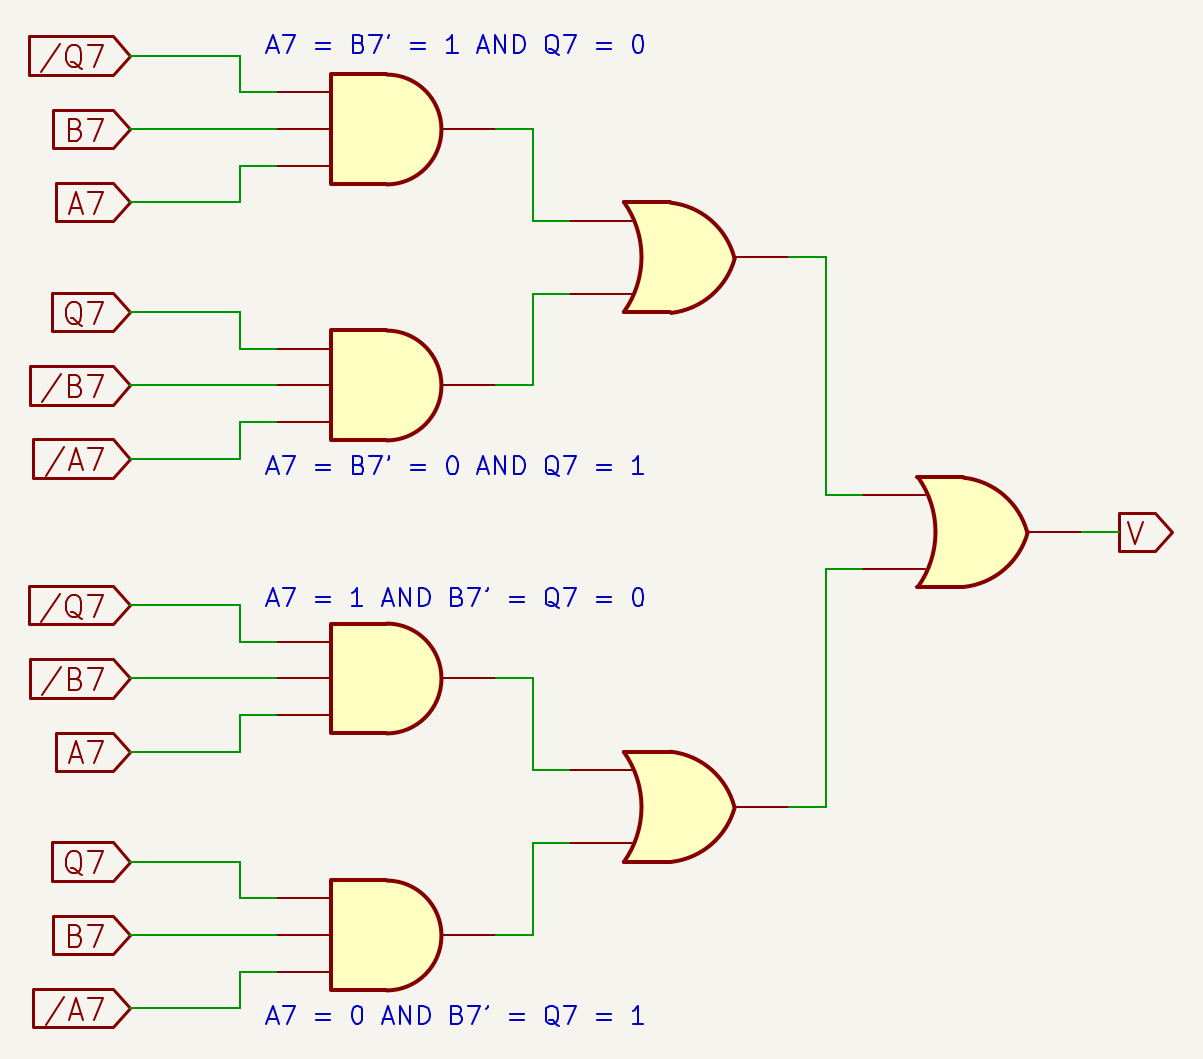
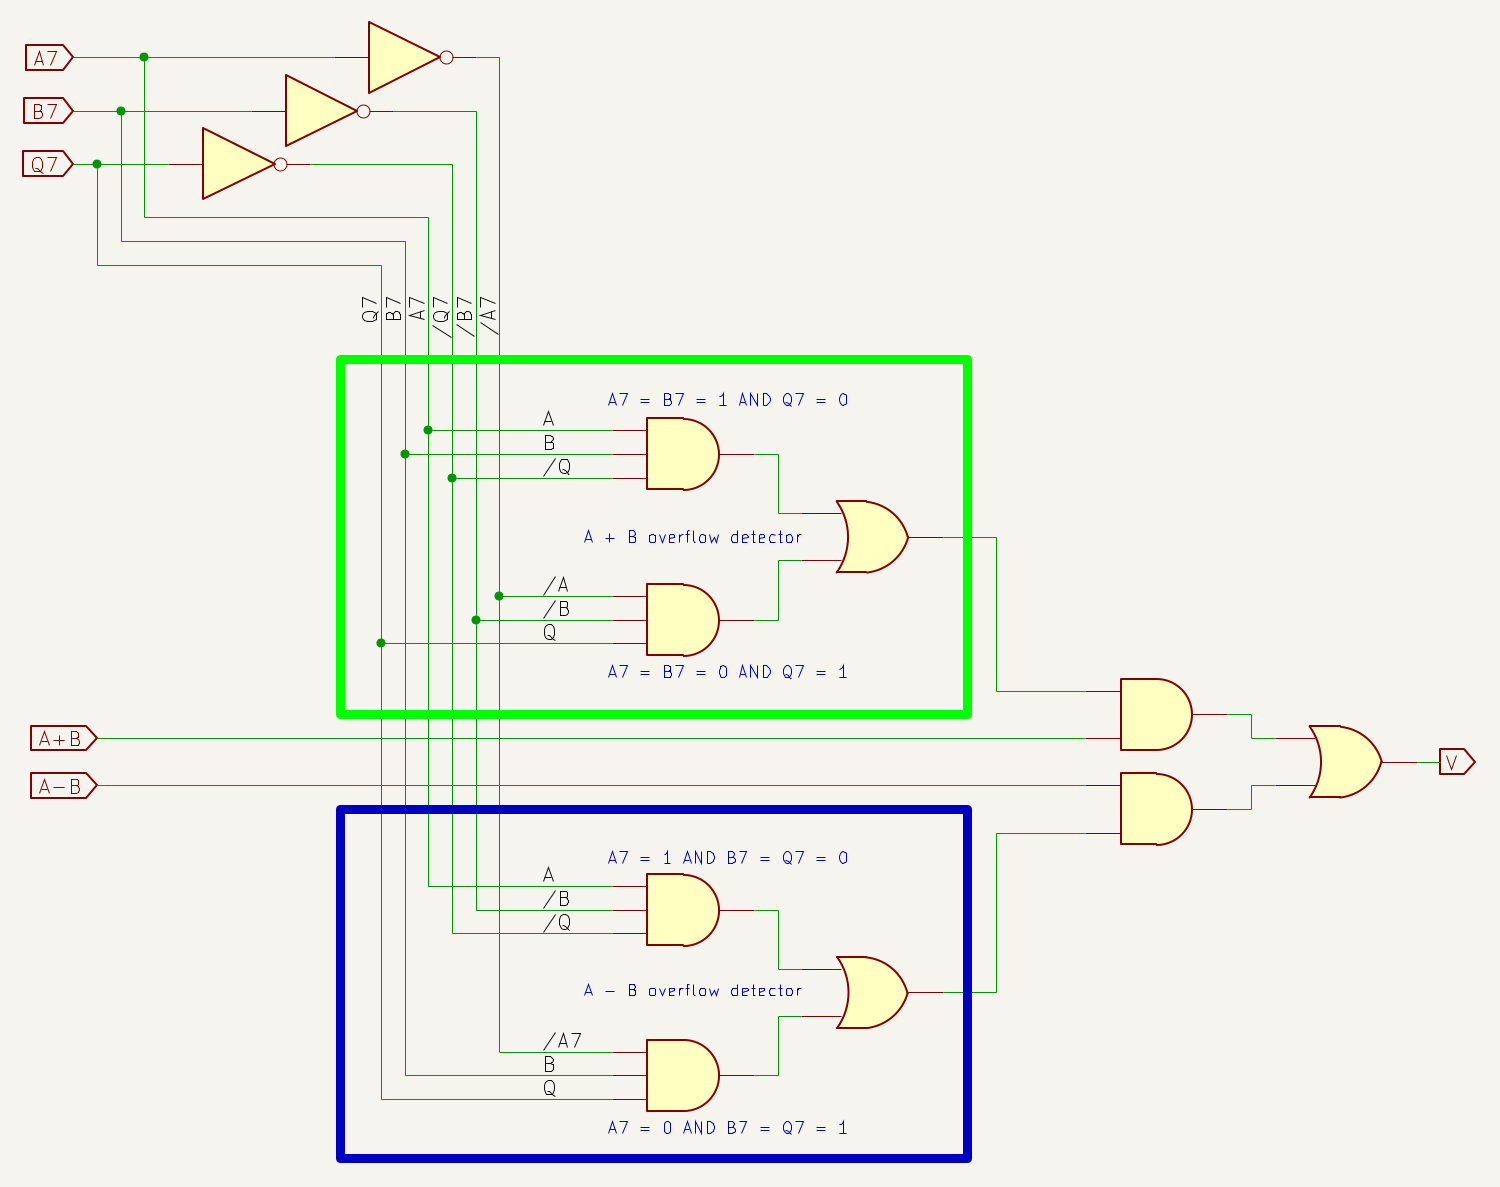
Update Math + Flag

diff --git a/docs/_docs/97-bin-math.md b/docs/_docs/97-bin-math.md
@@ -302,11 +302,11 @@ Nella sezione [Approfondimento Overflow](#approfondimento-overflow) abbiamo vist
 
 Mettendo a fattor comune quanto abbiamo visto fino ad ora, possiamo identificare 3 situazioni misurabili che determinano un Overflow in una somma:
 
-1. A7 e B7' sono dello stesso segno e Q è invertito, cioè **(A7 == B7') AND (Q7 <> A7)** (notare che non stiamo specificando un valore assoluto 1 o 0 dei bit: stiamo considerando le relazioni tra i segnali);
+1. A7 e B7' sono dello stesso segno e Q è invertito, cioè **(A7 == B7') AND (A7 <> Q7)** (notare che non stiamo specificando un valore assoluto 1 o 0 dei bit: stiamo considerando le relazioni tra i segnali);
 2. C7 e C8 sono invertiti tra loro, cioè **C7 <> C8** (anche in questo caso si esegue una comparazione relativa);
 3. **(A7 = B7' = 1 AND Q7 = 0) OR (A7 = B7' = 0 AND Q7 = 1)** è simile al punto 1, ma, anziché porre i bit in una comparazione relativa, ne stiamo specificando il valore assoluto.
 
-La truth table **(A7 == B7') AND (Q7 <> A7)** del primo caso si tradurrebbe nella logica in figura; purtroppo, il computer basato su 74LS181 non offre visibilità del valore di B7', che è computato internamente all'ALU e non esposto, pertanto questo metodo non è utilizzabile:
+La truth table **(A7 == B7') AND (A7 <> Q7)** del primo caso si tradurrebbe nella logica in figura; purtroppo, il computer basato su 74LS181 non offre visibilità del valore di B7', che è computato internamente all'ALU e non esposto, pertanto questo metodo non è utilizzabile:
 
 ![Primo metodo](../../assets/math/overflow-detector-xor-not-and.png)
 
@@ -326,21 +326,21 @@ Nemmeno il terzo metodo **(A7 = B7' = 1 AND Q7 = 0) OR (A7 = B7' = 0 AND Q7 = 1)
 
 I tre metodi esaminati sembrano portare a una strada chiusa; tuttavia, è possibile ricostruire artificialmente il segnale B7' basandosi sugli altri segnali disponibili nel computer.
 
-- In una *addizione*, il valore B7' in ingresso all'ultimo Adder del '181 sarà infatti uguale al valore di B7 dato in input al chip (in una somma A7 + B7, B7' non subisce modifiche dalla circuiteria interna dell'ALU e possiamo dunque usare B7 come input del circuito che determina l'eventuale stato di Overflow).
+- In una *addizione*, il valore B7' in ingresso all'ultimo Adder del '181 è uguale al valore di B7 dato in input al chip (in una somma A7 + B7, B7' non subisce modifiche dalla circuiteria interna dell'ALU e possiamo dunque usare B7 come input del circuito che determina l'eventuale stato di Overflow).
 
 ![Overflow somma](../../assets/math/overflow-detector-a+b.png){:width="43%"}
 
-Qualche considerazione permette di riutilizzare lo stesso metodo anche per la verifica dell'Overflow nelle *sottrazioni*.
+Qualche considerazione permette di riutilizzare lo stesso metodo anche per la verifica dell'Overflow nelle *sottrazioni*. Nelle sezioni [Fonti](#fonti) e [Numeri Unsigned e numeri Signed](#numeri-unsigned-e-numeri-signed) di questa pagina abbiamo appreso come una sottrazione possa essere svolta eseguendo una addizione di minuendo e complemento a 2 del sottraendo, dunque:
 
-- Il valore B7' in ingresso all'ultimo Adder del '181 sarà infatti invertito rispetto al valore di B7 dato in input al chip (in una sottrazione A7 - B7, B7' viene invertito dalla circuiteria interna dell'ALU* e possiamo dunque usare l'inverso di B7 come input del circuito che determina l'eventuale stato di Overflow):
+- Il valore B7' in ingresso all'ultimo Adder del '181 è invertito rispetto al valore di B7 dato in input al chip (in una sottrazione A7 - B7, B7' viene invertito dalla circuiteria interna dell'ALU e possiamo dunque usare l'inverso di B7 come input del circuito che determina l'eventuale stato di Overflow):
 
 ![Overflow sottrazione](../../assets/math/overflow-detector-a-b.png){:width="43%"}
 
-\* La sottrazione viene effettuata sommando il complemento a 2 del sottraendo, pertanto sappiamo che il valore di B7' sarà invertito rispetto a B7.
-
 In definitiva, il terzo metodo è utilizzabile per la verifica dell'Overflow sia per le addizioni, sia per le sottrazioni.
 
-Giunti a questo punto, per realizzare un circuito in grado di identificare l'Overflow basandoci sul terzo metodo servirebbero 4 porte AND con 3 ingressi e 3 porte OR con 2 ingressi: la terza OR servirebbe ad eseguire l'OR logico tra i due circuiti precedenti per creare un'unica segnalazione di Overflow tanto in caso di addizione quanto in caso di sottrazione.
+A questo punto, possiamo realizzare un circuito in grado di rilevare l'overflow. È necessario integrare la gestione delle istruzioni: il circuito di rilevamento dell'overflow per le addizioni deve includere un controllo che verifichi se l'operazione in esecuzione è un'addizione; lo stesso vale per la sottrazione.
+
+![Alt text](image.png)
 
 ![Overflow somma e sottrazione](../../assets/math/overflow-detector-a+b-a-b.png){:width="57%"}
 

diff --git a/docs/_docs/30-flags.md b/docs/_docs/30-flags.md
@@ -280,6 +280,6 @@ Il modulo Flag del computer BEAM è sostanzialmente una copia del modulo Flag de
 
 - Tom segnala di aver preso ispirazione dal thread Reddit <a href="https://www.reddit.com/r/beneater/comments/jwxke0/how_to_add_a_decremental_and_incremental_circuit/" target="_blank">How to add a decremental and incremental circuit to the ALU ?</a> per l'idea di pilotare il caricamento del [Program Counter](../programcounter/) dal registro dei Flag anziché gestirli con copie multiple del microcode come avveniva come sul SAP di Ben Eater.
 
-- Inoltre, anche l'ispirazione per la realizzazione del Flag V deriva da un altro thread su Reddit, <a href="https://www.reddit.com/r/beneater/comments/kmuuex/question_for_all_74ls181_alu_people" target="_blank">Question for all 74ls181 alu people</a>; in particolar modo, l'utente <a href="https://www.reddit.com/user/SaltPeppah/" target="_blank">SaltPeppah</a> suggeriva l'uso del 74LS151 segnalando il link indicato nella sezione [Overflow](#overflow) della pagina dei Flag e nella sezione [Approfondimento Overlow](../math/#approfondimento-overflow) della pagina dedicata all'aritmetica binaria.
+- Inoltre, anche l'ispirazione per la realizzazione del Flag V deriva da un altro thread su Reddit, <a href="https://www.reddit.com/r/beneater/comments/kmuuex/question_for_all_74ls181_alu_people" target="_blank">Question for all 74ls181 alu people</a>; in particolar modo, l'utente <a href="https://www.reddit.com/user/SaltPeppah/" target="_blank">SaltPeppah</a> suggeriva l'uso del 74LS151 segnalando il link indicato nella sezione [Overflow](#overflow) della pagina dei Flag e nella sezione [Approfondimento Overlow](../math/#approfondimento-overflow) della pagina dedicata all'aritmetica binaria, dove l'argomento viene trattato per esteso.
 
 - Tom notava anche l'approccio del thread <a href="https://www.reddit.com/r/beneater/comments/m76ijz/opcodes_and_flag_decoding_circuit/" target="_blank">Opcodes and Flag decoding circuit</a> per eseguire salti condizionali in hardware. Invece di pilotare la linea LOAD del Program Counter, il circuito dell'autore del thread si trova tra l'IR e la EEPROM e forza condizionatamente un'istruzione NOP o JMP a seconda dello stato dei flag. Gli opcode delle istruzioni di salto sono disposti in modo tale che il flag di interesse possa essere determinato dai bit in uscita dall'IR. Concetto interessante, ma Tom aveva già implementato una funzionalità simile con le linee di selezione dell'ALU hardwired all'IR, modalità utilizzata anche nella gestione dei [salti condizionali](#i-salti-condizionali-e-incondizionati).
